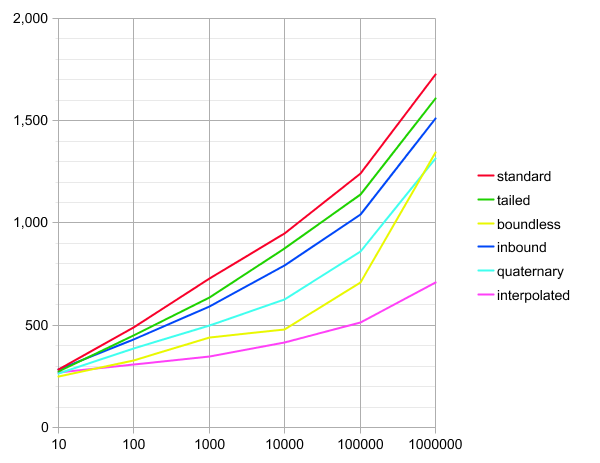
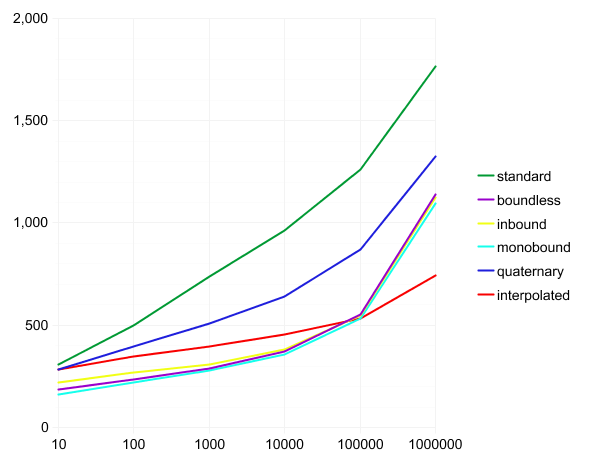
v1.5

diff --git a/binary-search.c b/binary-search.c
@@ -20,7 +20,7 @@
 */
 
 /*
-	Binary Search v1.4
+	Binary Search v1.5
 
 	Compile using: gcc -O3 binary-search.c
 */
@@ -116,18 +116,11 @@ int boundless_binary_search(int *array, int array_size, int key)
 {
 	register int mid, i;
 
-	++checks;
+	i = mid = array_size - 1;
 
-	if (key < array[0])
+	while (mid > 1)
 	{
-		return -1;
-	}
-
-	mid = i = array_size - 1;
-
-	while (mid > 3)
-	{
-		mid /= 2;
+		mid -= mid >> 1;
 
 		++checks;
 
@@ -137,9 +130,9 @@ int boundless_binary_search(int *array, int array_size, int key)
 		}
 	}
 
-	while (++checks && key < array[i])
+	if (i && ++checks && key < array[i])
 	{
-		--i;
+		i--;
 	}
 
 	++checks;
@@ -151,13 +144,13 @@ int boundless_binary_search(int *array, int array_size, int key)
 	return -1;
 }
 
-// slightly more key checks with simpler calculations
+// fewer keychecks than boundless
 
 int inbound_binary_search(int *array, int array_size, int key)
 {
 	register int mid, i;
 
-	mid = array_size / 2;
+	mid = array_size - array_size / 2;
 
 	++checks;
 
@@ -167,19 +160,14 @@ int inbound_binary_search(int *array, int array_size, int key)
 
 		while (mid > 1)
 		{
-			mid /= 2;
+			mid -= mid >> 1;
 
 			++checks;
 
-			if (key > array[i + mid])
+			if (key >= array[i + mid])
 			{
-				i += mid + 1;
+				i += mid;
 			}
-		}
-
-		if (++checks && key > array[i])
-		{
-			++i;
 		}
 	}
 	else
@@ -188,19 +176,14 @@ int inbound_binary_search(int *array, int array_size, int key)
 
 		while (mid > 1)
 		{
-			mid /= 2;
+			mid -= mid >> 1;
 
 			++checks;
 
-			if (key < array[i - mid])
+			if (key <= array[i - mid])
 			{
-				i -= mid + 1;
+				i -= mid;
 			}
-		}
-
-		if (++checks && key < array[i])
-		{
-			--i;
 		}
 	}
 
@@ -213,7 +196,38 @@ int inbound_binary_search(int *array, int array_size, int key)
 	return -1;
 }
 
-// more key checks but better performance on large arrays
+// fewer keychecks than boundless
+
+int monobound_binary_search(int *array, int array_size, int key)
+{
+	register int bot, mid, top;
+
+	bot = 0;
+	top = array_size;
+
+	while (top > 1)
+	{
+		mid = top >> 1;
+
+		++checks;
+
+		if (key >= array[bot + mid])
+		{
+			bot += mid;
+		}
+		top -= mid;
+	}
+
+	++checks;
+
+	if (key == array[bot])
+	{
+		return bot;
+	}
+	return -1;
+}
+
+// better performance on very large arrays
 
 int boundless_quaternary_search(int *array, int array_size, int key)
 {
@@ -273,7 +287,7 @@ int boundless_quaternary_search(int *array, int array_size, int key)
 	return -1;
 }
 
-// slightly more key checks and better performance on large arrays
+// better performance on very large arrays
 
 int inbound_quaternary_search(int *array, int array_size, int key)
 {
@@ -368,7 +382,6 @@ int inbound_quaternary_search(int *array, int array_size, int key)
 	}
 	return -1;
 }
-
 
 
 // requires an even distribution
@@ -532,7 +545,7 @@ void execute(int (*algo_func)(int *, int, int), const char * algo_name)
 			best = end - start;
 		}
 	}
-	printf("| %30s | %10d | %10d | %10d | %10d | %10f |\n", algo_name, max, hit, miss, checks, best / 1000000.0);
+	printf("| %40s | %10d | %10d | %10d | %10d | %10f |\n", algo_name, max, hit, miss, checks, best / 1000000.0);
 
 }
 
@@ -544,7 +557,7 @@ int main(int argc, char **argv)
 
 	max = 100000;
 	loop = 10000;
-	density = 100; // max * density should stay under 2 billion
+	density = 10; // max * density should stay under 2 billion
 	runs = 1000;
 
 	if (argc > 1)
@@ -566,8 +579,8 @@ int main(int argc, char **argv)
 		density = 2;
 	}
 
-//	srand(time(NULL));
-	srand(1);
+	srand(time(NULL));
+//	srand(1);
 
 	rnd = rand();
 
@@ -580,22 +593,19 @@ int main(int argc, char **argv)
 
 	printf("\n\nEven distribution with %d 32 bit integers\n\n", max);
 
-	printf("| %30s | %10s | %10s | %10s | %10s | %10s |\n", "Name", "Items", "Hits", "Misses", "Checks", "Time");
-	printf("| %30s | %10s | %10s | %10s | %10s | %10s |\n", "----------", "----------", "----------", "----------", "----------", "----------");
-
-	// Trial run
-
-	run(standard_binary_search);
-
-	// Begin
+	printf("| %40s | %10s | %10s | %10s | %10s | %10s |\n", "Name", "Items", "Hits", "Misses", "Checks", "Time");
+	printf("| %40s | %10s | %10s | %10s | %10s | %10s |\n", "----------", "----------", "----------", "----------", "----------", "----------");
 
 	run(standard_binary_search);
 	run(tailed_binary_search);
 	run(boundless_binary_search);
 	run(inbound_binary_search);
+	run(monobound_binary_search);
 	run(boundless_quaternary_search);
 	run(inbound_quaternary_search);
 	run(boundless_interpolated_search);
+
+	// uneven distribution
 
 	for (cnt = 0, val = 0 ; cnt < max / 8 ; cnt++)
 	{
@@ -610,13 +620,12 @@ int main(int argc, char **argv)
 	top = array[max - 1] + 2;
 
 	printf("\n\nUneven distribution with %d 32 bit integers\n\n", max);
-	printf("| %30s | %10s | %10s | %10s | %10s | %10s |\n", "Name", "Items", "Hits", "Misses", "Checks", "Time");
-	printf("| %30s | %10s | %10s | %10s | %10s | %10s |\n", "----------", "----------", "----------", "----------", "----------", "----------");
-	// Trial run
+
+	printf("| %40s | %10s | %10s | %10s | %10s | %10s |\n", "Name", "Items", "Hits", "Misses", "Checks", "Time");
+	printf("| %40s | %10s | %10s | %10s | %10s | %10s |\n", "----------", "----------", "----------", "----------", "----------", "----------");
 
 	run(standard_binary_search);
-
-	// Begin
+	run(inbound_quaternary_search);
 	run(boundless_interpolated_search);
 
 	return 0;
